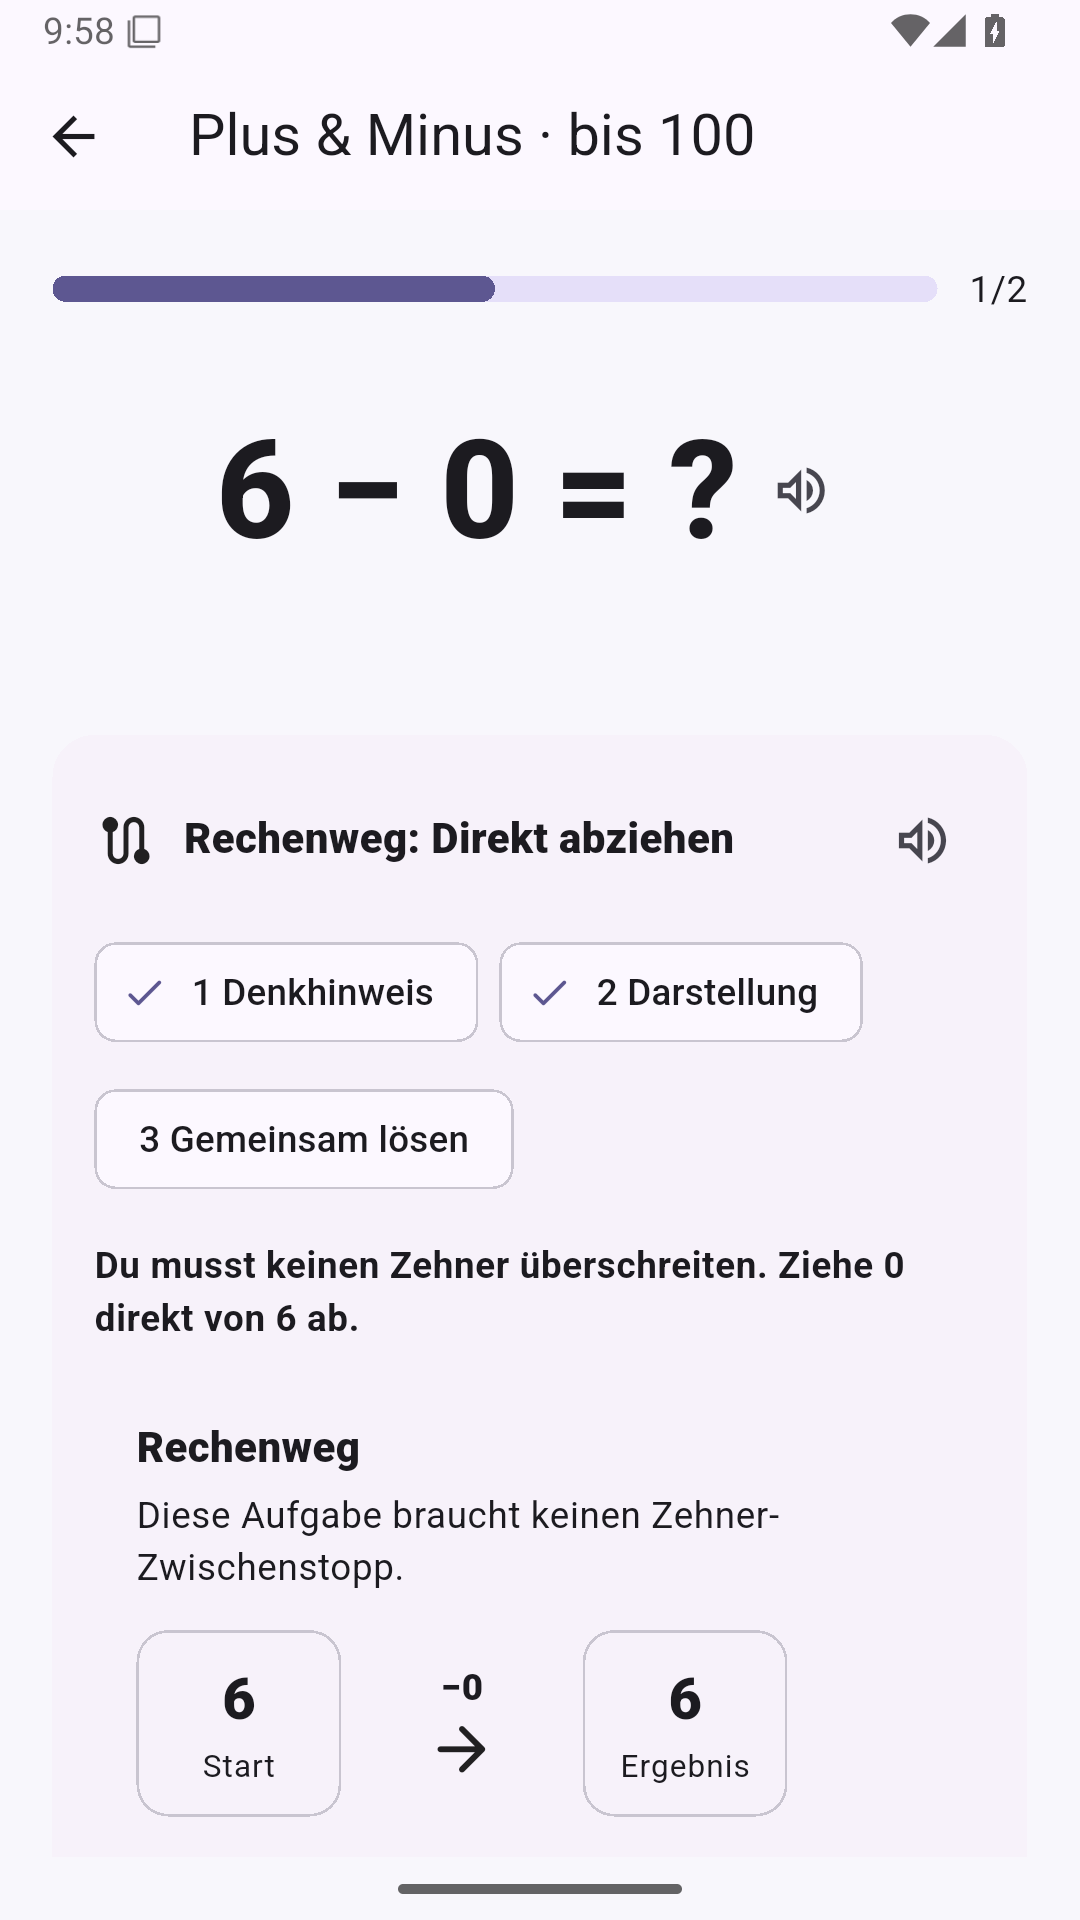
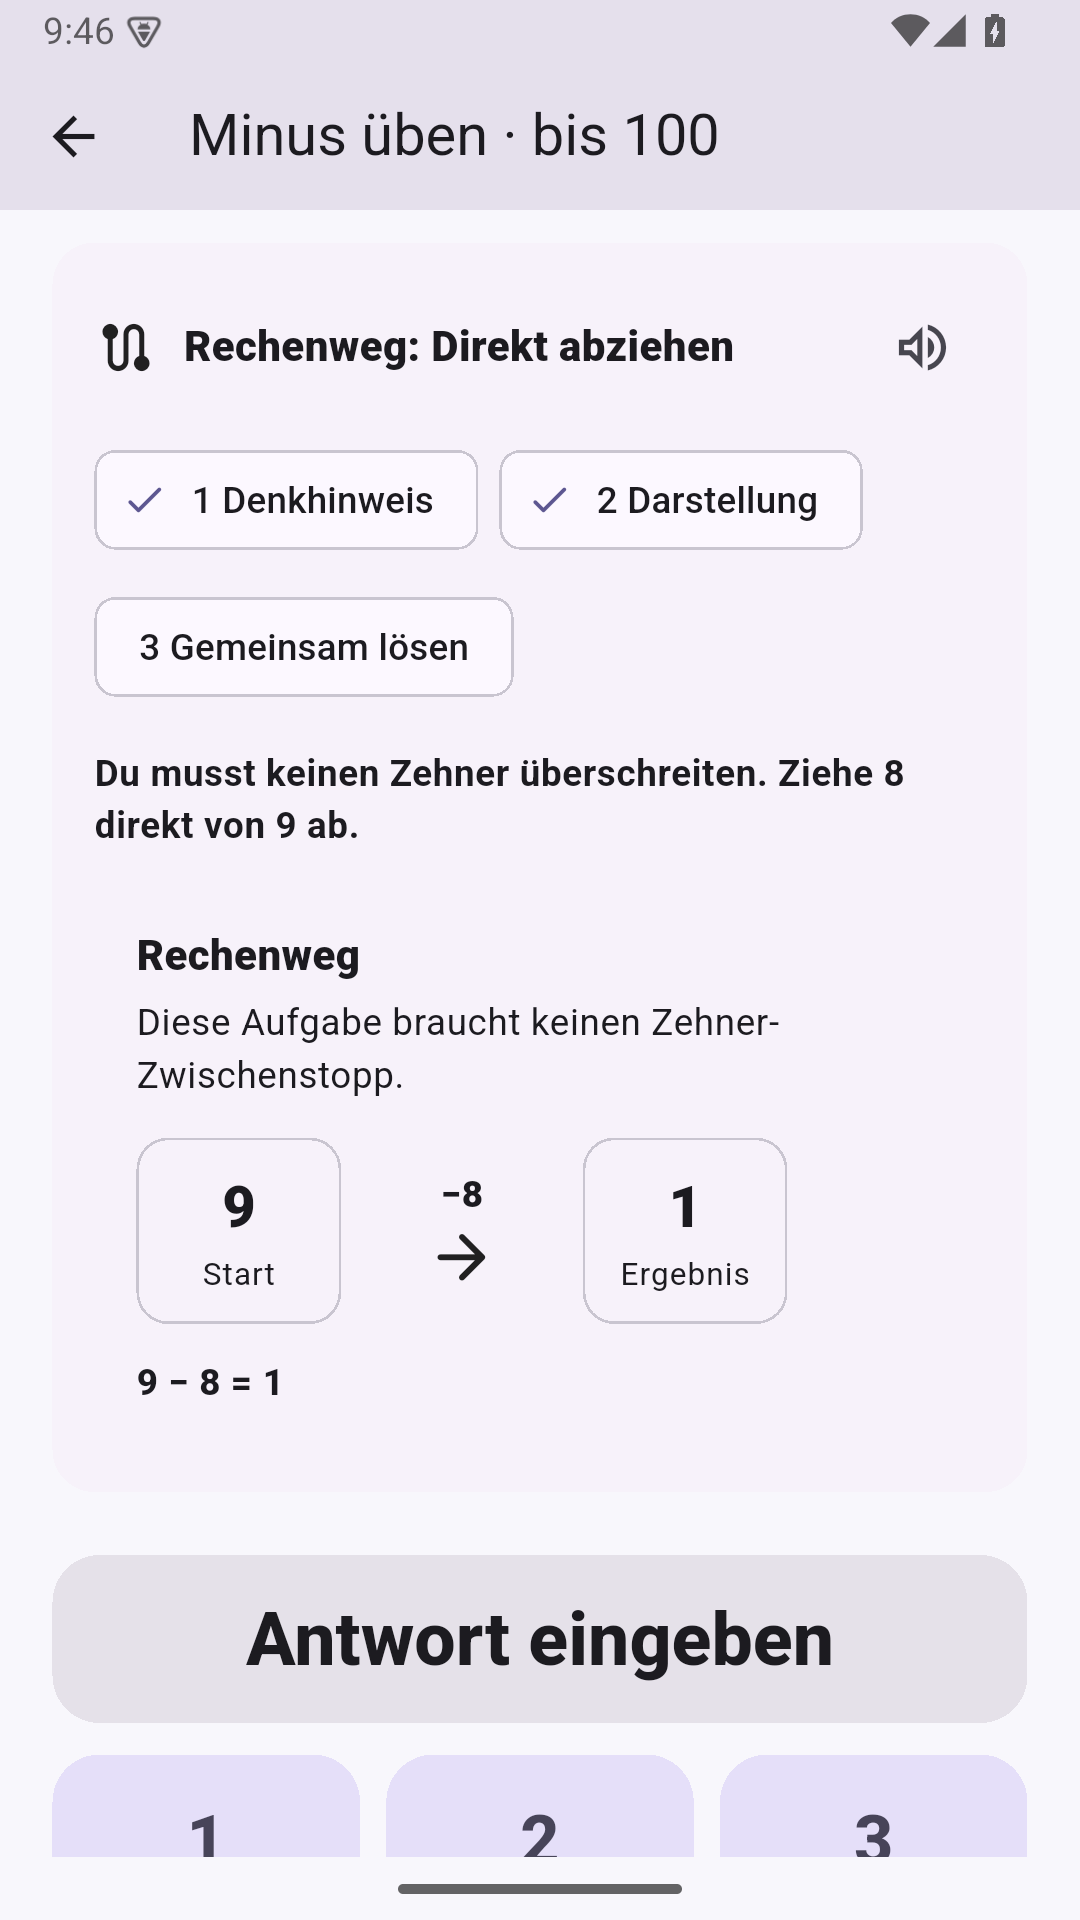
release: improve Google Play screenshots

diff --git a/test/release_readiness_test.dart b/test/release_readiness_test.dart
@@ -237,6 +237,7 @@ void main() {
       'store/google-play/screenshots/02-meine-runde.png',
       'store/google-play/screenshots/03-rundenplan.png',
       'store/google-play/screenshots/04-rechenhilfe.png',
+      'store/google-play/screenshots/05-lernlandkarte.png',
     ]) {
       final screenshot = pngInfo(path);
       expect((screenshot.width, screenshot.height), (1080, 1920));
@@ -250,7 +251,7 @@ void main() {
       expect(screenshot.height / screenshot.width, lessThanOrEqualTo(2));
     }
 
-    expect(checklist, contains('4 echte App-Screenshots in 1080 × 1920 px'));
+    expect(checklist, contains('5 echte App-Screenshots in 1080 × 1920 px'));
     expect(checklist, contains('Alt-Text für jedes Bild dokumentiert'));
 
     const publicContact = 'mahajana.dasa@gmail.com';

diff --git a/store/google-play/screenshots/README.md b/store/google-play/screenshots/README.md
@@ -1,6 +1,6 @@
 # Google-Play-Screenshots – de-DE
 
-Erstellt am 9. September 2026 aus dem aktuellen Android-Build auf einem
+Erstellt am 10. September 2026 aus dem aktuellen Android-Build auf einem
 frischen Android-35-Emulator mit 1080 × 1920 Pixeln.
 
 Datenschutz:
@@ -35,3 +35,10 @@ Alt-Text:
 Rechenaufgabe in Rechenblitz mit der dreistufigen Hilfe
 Denkhinweis, Darstellung und Gemeinsam lösen sowie einer visuellen
 Rechenweg-Darstellung.
+
+## 05-lernlandkarte.png
+
+Alt-Text:
+Lernlandkarte von Rechenblitz für Klasse 2 mit einzelnen mathematischen
+Teilschritten, Kompetenzstatus sowie Evidenz zu selbstständigem Lösen,
+Hilfen, Wiederholung mit Abstand und Transfer.

diff --git a/docs/google-play-release-checklist.md b/docs/google-play-release-checklist.md
@@ -44,7 +44,7 @@ Grafiken vor Veröffentlichung bereitstellen:
       (`store/google-play/app-icon-512.png`)
 - [x] Vorstellungsgrafik: 1.024 × 500 px, RGB-PNG ohne Alpha
       (`store/google-play/feature-graphic-1024x500.png`)
-- [x] 4 echte App-Screenshots in 1080 × 1920 px
+- [x] 5 echte App-Screenshots in 1080 × 1920 px
       (store/google-play/screenshots/)
 - [x] mindestens 4 Smartphone-Screenshots für die Store-Präsentation
 - [x] Alt-Text für jedes Bild dokumentiert
